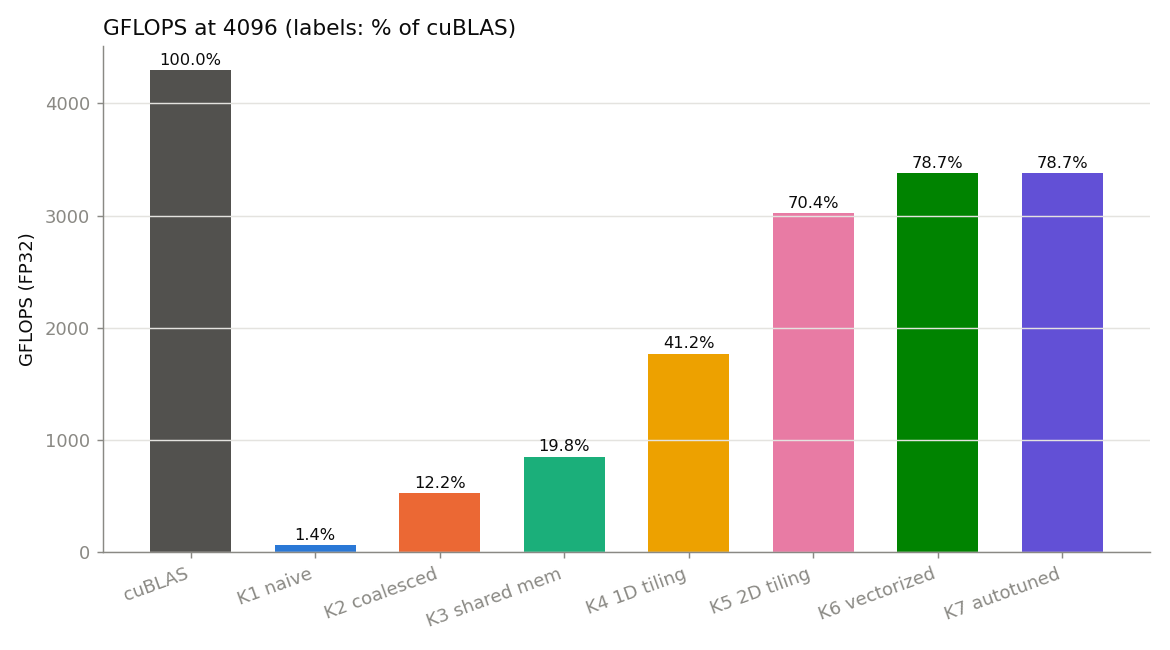
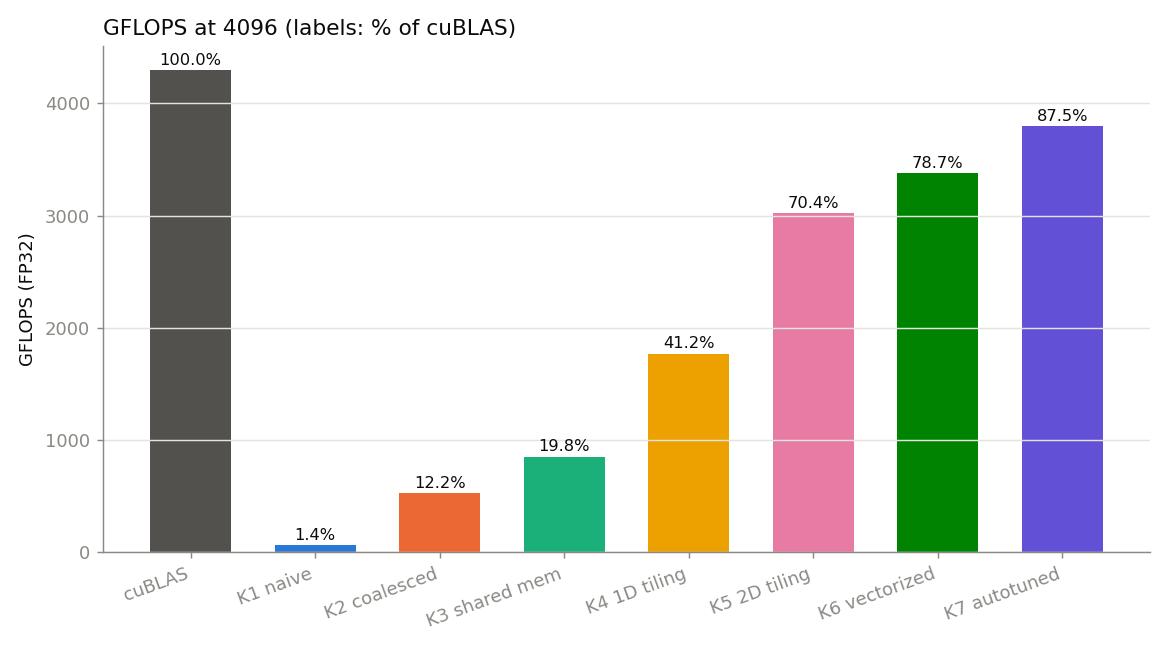
Re-measure K7 with tuned tile sizes

Changed region(s): [[0.8615, 0.1538, 0.9538, 0.2769]]

diff --git a/README.md b/README.md
@@ -12,7 +12,7 @@ This repo is a worklog of writing FP32 matrix multiplication, `C = alpha*A*B + b
 | K4 1D block tiling | 1767 | 41.2% | 2.08x |
 | K5 2D block tiling | 3023 | 70.4% | 1.71x |
 | K6 vectorized + transposed A | 3379 | 78.7% | 1.12x |
-| K7 autotuned | 3380 | 78.7% | 1.00x |
+| K7 autotuned | 3797 | 87.5% | 1.12x |
 <!-- END:results_table -->
 
 ![GFLOPS at 4096](plots/bar_4096.png)
@@ -90,7 +90,7 @@ One detail worth knowing: with `beta = 0` the kernels still read C, and `0 * NaN
 | K4 1D block tiling | 120 | 538 | 1949 | 2009 | 1913 | 1767 |
 | K5 2D block tiling | 51 | 238 | 1928 | 3192 | 3300 | 3023 |
 | K6 vectorized + transposed A | 65 | 282 | 2156 | 3690 | 3763 | 3379 |
-| K7 autotuned | 65 | 263 | 2126 | 3697 | 3725 | 3380 |
+| K7 autotuned | 74 | 331 | 1372 | 2542 | 3961 | 3797 |
 
 Largest max-abs-error against cuBLAS across all kernels and sizes: 1.60e-04 (tolerance 1e-2).
 <!-- END:sweep_table -->
@@ -346,7 +346,7 @@ Fastest configurations:
 ![autotune heatmap](plots/autotune_heatmap.png)
 
 <!-- BEGIN:k7_result -->
-**Measured at 4096:** 3380 GFLOPS, 78.7% of cuBLAS, 1.00x over K6 (median of 20 runs, 40.67 ms).
+**Measured at 4096:** 3797 GFLOPS, 87.5% of cuBLAS, 1.12x over K6 (median of 20 runs, 36.19 ms).
 <!-- END:k7_result -->
 
 **The trade-off.** Bigger tiles mean more reuse. A BMxBN block tile loads (BM+BN)xBK floats per K-step to do BMxBNxBK FMAs, and a TMxTN thread tile does TMxTN FMAs per TM+TN shared loads. But both cost resources:
